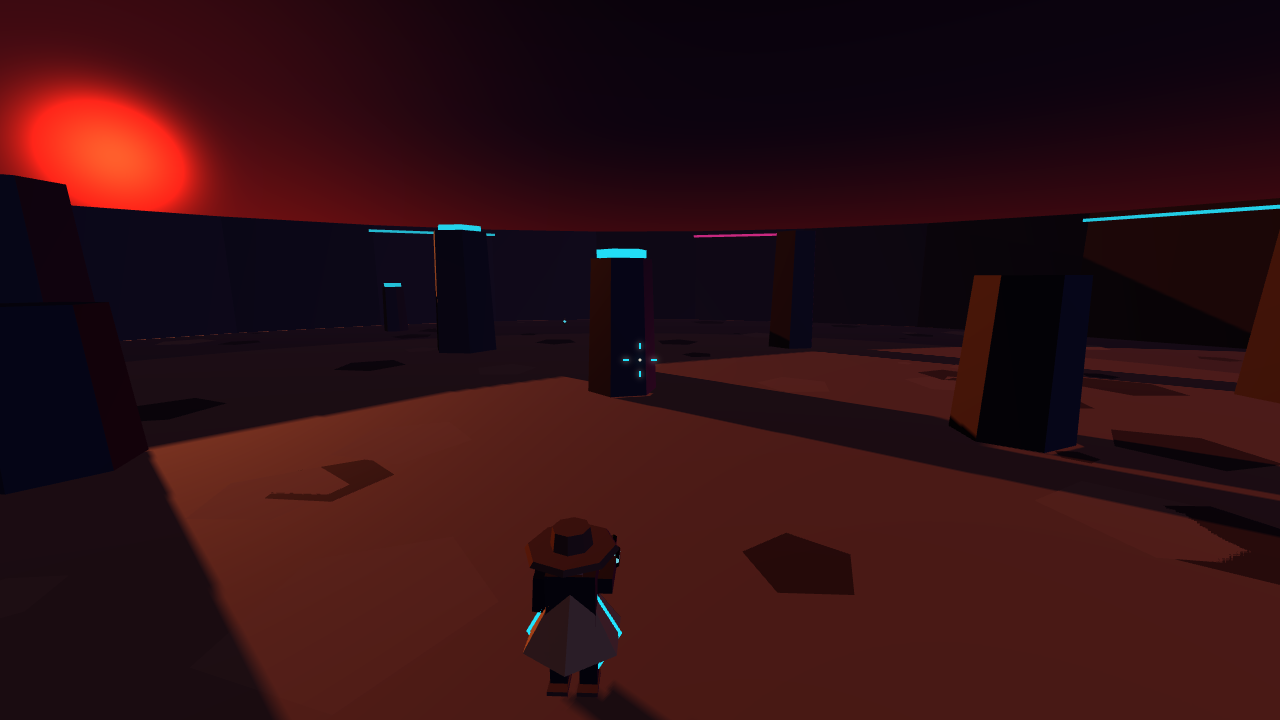
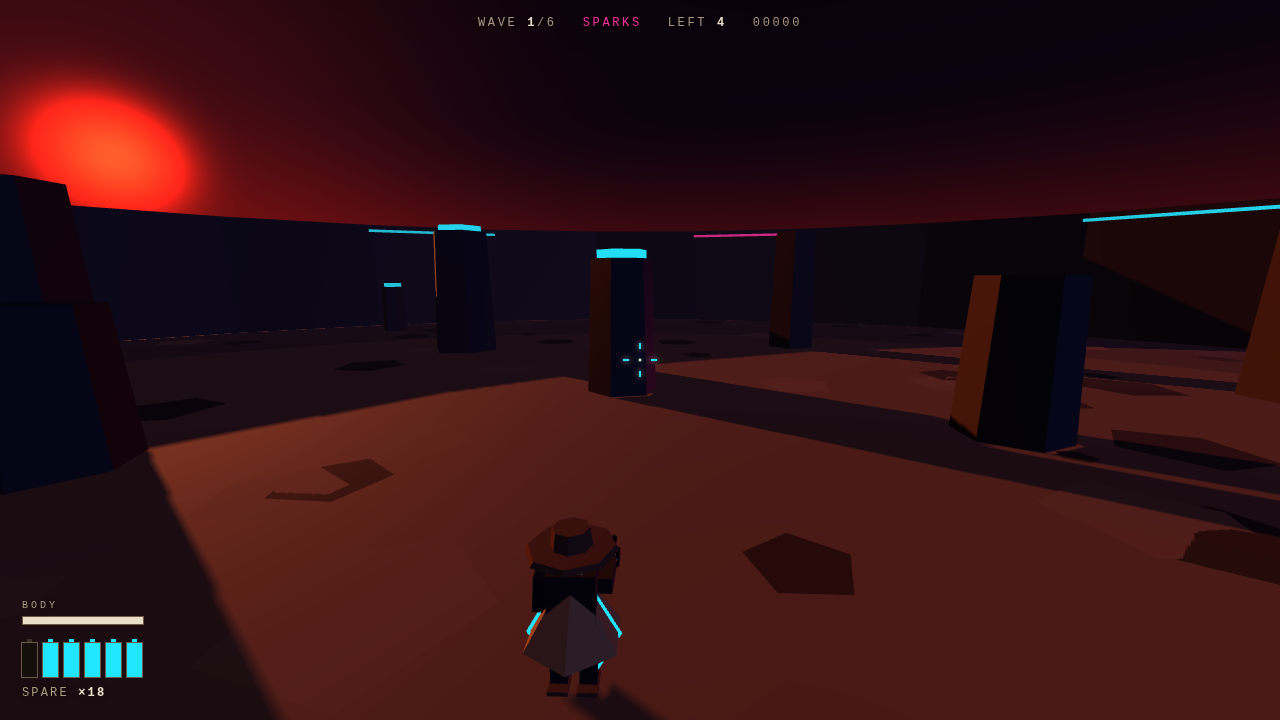
Battery cylinder, reload economics and defeat on depletion
Reloading replaces whole cells, so a chamber with charge still in it is thrown
away when you reload early: 40 units left plus one spare buys 60 units of
capacity, not 100. That makes "when do I reload" an actual resource decision
rather than a reflex, and verify pins the arithmetic.

A cylinder that cannot pay the full cost fires a weakened shot rather than
refusing, scaling volts and amperes by sqrt(power) so the V*A product scales
exactly with what was available. You are never stuck holding a dead trigger;
the run ends only when the cylinder and your pockets are both empty.

HUD stays out of the way: body bar, six cells, spare count, nothing else.
There is still no volt or ampere gauge -- the zoom and the crackle are the
gauges. The six cells modelled into the revolver track the same six chambers.

Claude-Session: https://claude.ai/code/session_019aY7eQBgLRgmyuaP8vNwto

Changed region(s): [[0.0, 0.8556, 0.125, 0.9778], [0.9062, 0.7028, 0.9688, 0.7944]]

diff --git a/src/ui/Hud.tsx b/src/ui/Hud.tsx
@@ -1,0 +1,148 @@
+import { useEffect, useRef } from 'react'
+import { BATTERY, PLAYER, WAVES } from '../config'
+import { charge, playerState } from '../game/runtime'
+import { useGame } from '../store'
+
+const CELL_W = 15
+const CELL_H = 34
+
+/** Cyan while healthy, amber as it drains, red when nearly flat. */
+function cellColor(frac: number) {
+  if (frac > 0.6) return '#22e6ff'
+  if (frac > 0.28) return '#ffd23f'
+  return '#ff4a4a'
+}
+
+function Cell({ frac }: { frac: number }) {
+  const c = cellColor(frac)
+  return (
+    <div style={{ width: CELL_W, display: 'flex', flexDirection: 'column', alignItems: 'center' }}>
+      {/* positive nub */}
+      <div style={{ width: 5, height: 3, background: frac > 0.02 ? c : '#3a3129' }} />
+      <div style={{
+        width: CELL_W, height: CELL_H, border: '1px solid #6b5a41',
+        background: '#140f0b', position: 'relative', overflow: 'hidden',
+      }}>
+        <div style={{
+          position: 'absolute', left: 0, right: 0, bottom: 0,
+          height: `${Math.max(0, Math.min(1, frac)) * 100}%`,
+          background: c, boxShadow: `0 0 8px ${c}`,
+          transition: 'height 90ms linear',
+        }} />
+      </div>
+    </div>
+  )
+}
+
+export function Hud() {
+  const hp = useGame((s) => s.hp)
+  const chambers = useGame((s) => s.chambers)
+  const spares = useGame((s) => s.spares)
+  const wave = useGame((s) => s.wave)
+  const waveLabel = useGame((s) => s.waveLabel)
+  const enemiesLeft = useGame((s) => s.enemiesLeft)
+  const score = useGame((s) => s.score)
+  const reloading = useGame((s) => s.reloading)
+  const log = useGame((s) => s.log)
+
+  const reloadBar = useRef<HTMLDivElement>(null)
+  const flash = useRef<HTMLDivElement>(null)
+
+  // Per-frame bits read the runtime directly instead of going through the
+  // store: reload progress and the damage flash must not re-render the HUD.
+  useEffect(() => {
+    let raf = 0
+    const tick = () => {
+      if (reloadBar.current) {
+        const p = 1 - Math.max(0, charge.reloadTimer) / BATTERY.reloadTime
+        reloadBar.current.style.width = `${Math.min(1, p) * 100}%`
+      }
+      if (flash.current) {
+        flash.current.style.opacity = String(Math.min(0.55, playerState.hitFlash * 0.55))
+      }
+      raf = requestAnimationFrame(tick)
+    }
+    raf = requestAnimationFrame(tick)
+    return () => cancelAnimationFrame(raf)
+  }, [])
+
+  const total = chambers.reduce((a, b) => a + b, 0)
+  const lowCylinder = total < BATTERY.unitsPerCell * 1.2
+
+  return (
+    <>
+      <div ref={flash} style={{
+        position: 'absolute', inset: 0, pointerEvents: 'none', opacity: 0,
+        background: 'radial-gradient(ellipse at center, rgba(255,40,40,0) 35%, rgba(255,30,60,0.95) 100%)',
+      }} />
+
+      {/* top centre: just the two numbers that matter */}
+      <div style={{
+        position: 'absolute', top: 16, left: '50%', transform: 'translateX(-50%)',
+        display: 'flex', gap: 26, fontSize: 12, letterSpacing: '0.22em',
+        color: '#a99a7e', pointerEvents: 'none', textShadow: '0 0 10px #000',
+      }}>
+        <span>WAVE <b style={{ color: '#e9dfc8' }}>{wave + 1}</b>/{WAVES.length}</span>
+        <span style={{ color: '#ff2f9e' }}>{waveLabel}</span>
+        <span>LEFT <b style={{ color: '#e9dfc8' }}>{enemiesLeft}</b></span>
+        <span>{String(score).padStart(5, '0')}</span>
+      </div>
+
+      {/* bottom left: body and batteries, nothing else */}
+      <div style={{
+        position: 'absolute', left: 22, bottom: 20, pointerEvents: 'none',
+        textShadow: '0 0 10px #000',
+      }}>
+        <div style={{ fontSize: 10, letterSpacing: '0.3em', color: '#a99a7e', marginBottom: 5 }}>BODY</div>
+        <div style={{ width: 6 * (CELL_W + 6) - 6, height: 7, background: '#140f0b', border: '1px solid #6b5a41' }}>
+          <div style={{
+            height: '100%', width: `${(hp / PLAYER.maxHp) * 100}%`,
+            background: hp > 40 ? '#e9dfc8' : '#ff4a4a',
+            boxShadow: hp > 40 ? 'none' : '0 0 10px #ff4a4a',
+            transition: 'width 140ms linear',
+          }} />
+        </div>
+
+        <div style={{ display: 'flex', gap: 6, marginTop: 14, alignItems: 'flex-end' }}>
+          {chambers.map((c, i) => <Cell key={i} frac={c / BATTERY.unitsPerCell} />)}
+        </div>
+
+        <div style={{
+          marginTop: 8, display: 'flex', alignItems: 'center', gap: 10,
+          fontSize: 12, letterSpacing: '0.18em', color: '#a99a7e',
+        }}>
+          <span>SPARE <b style={{ color: spares > 3 ? '#e9dfc8' : '#ff4a4a' }}>×{spares}</b></span>
+          {reloading ? (
+            <span style={{ color: '#22e6ff' }}>
+              RELOADING
+              <span style={{
+                display: 'inline-block', width: 54, height: 4, marginLeft: 8,
+                background: '#140f0b', border: '1px solid #22e6ff', verticalAlign: 'middle',
+              }}>
+                <div ref={reloadBar} style={{ height: '100%', width: '0%', background: '#22e6ff' }} />
+              </span>
+            </span>
+          ) : lowCylinder && spares > 0 ? (
+            <span style={{ color: '#ffd23f' }}>[R] RELOAD</span>
+          ) : null}
+        </div>
+      </div>
+
+      {/* transient messages, bottom right, max five lines */}
+      <div style={{
+        position: 'absolute', right: 22, bottom: 22, textAlign: 'right',
+        fontSize: 12, letterSpacing: '0.16em', pointerEvents: 'none',
+        textShadow: '0 0 10px #000',
+      }}>
+        {log.map((l) => (
+          <div key={l.id} style={{
+            color: l.tone === 'warn' ? '#ff4a4a' : l.tone === 'v' ? '#22e6ff' : l.tone === 'a' ? '#ff2f9e' : '#a99a7e',
+            marginTop: 3,
+          }}>
+            {l.text}
+          </div>
+        ))}
+      </div>
+    </>
+  )
+}

diff --git a/src/scene/Gunman.tsx b/src/scene/Gunman.tsx
@@ -1,8 +1,10 @@
 import { useRef } from 'react'
 import { useFrame } from '@react-three/fiber'
-import { Group, Object3D } from 'three'
+import { Group, Mesh, MeshStandardMaterial, Object3D } from 'three'
+import { BATTERY } from '../config'
 import { look } from '../input'
 import { charge, clampDt, damp, playerState } from '../game/runtime'
+import { useGame } from '../store'
 
 const SAND = '#8a7043'
 const DARK = '#332921'
@@ -17,8 +19,11 @@ export function Gunman() {
   const arm = useRef<Group>(null)
   const muzzle = useRef<Object3D>(null)
   const legs = useRef<Group>(null)
+  const cylinder = useRef<Group>(null)
+  const cells = useRef<Mesh[]>([])
   const walkT = useRef(0)
   const recoil = useRef(0)
+  const spin = useRef(0)
 
   useFrame((_, rawDt) => {
     const dt = clampDt(rawDt)
@@ -31,6 +36,23 @@ export function Gunman() {
       arm.current.position.z = 0.02 + recoil.current * 0.16
     }
     if (muzzle.current) muzzle.current.getWorldPosition(playerState.muzzle)
+
+    // The six cells in the gun ARE the six chambers on the HUD: each one dims
+    // as its charge is drawn down, so the resource is readable on the weapon.
+    const st = useGame.getState()
+    for (let i = 0; i < cells.current.length; i++) {
+      const m = cells.current[i]?.material as MeshStandardMaterial | undefined
+      if (!m) continue
+      const frac = (st.chambers[i] ?? 0) / BATTERY.unitsPerCell
+      m.emissiveIntensity = 0.1 + frac * 1.5
+      m.emissive.setRGB(0.13 * frac + 0.02, 0.9 * frac + 0.04, frac + 0.05)
+    }
+    if (cylinder.current) {
+      // Spins through a full turn while reloading, then rests on a detent.
+      const target = st.reloading ? spin.current + dt * 14 : Math.round(spin.current / (Math.PI / 3)) * (Math.PI / 3)
+      spin.current = st.reloading ? target : damp(spin.current, target, 12, dt)
+      cylinder.current.rotation.y = spin.current
+    }
 
     // Legs swing with planar speed; frozen mid-air.
     const sp = Math.hypot(playerState.vel.x, playerState.vel.z)
@@ -116,6 +138,7 @@ export function Gunman() {
         </mesh>
         {/* cylinder: six AA cells, canted out so the copper caps catch light */}
         <group position={[0, -0.04, -0.66]} rotation={[Math.PI / 2, 0, 0]}>
+          <group ref={cylinder}>
           <mesh castShadow>
             <cylinderGeometry args={[0.13, 0.13, 0.2, 6]} />
             <meshStandardMaterial color="#2a2f38" flatShading roughness={0.4} metalness={0.8} />
@@ -123,12 +146,20 @@ export function Gunman() {
           {Array.from({ length: 6 }, (_, i) => {
             const ang = (i / 6) * Math.PI * 2
             return (
-              <mesh key={i} position={[Math.cos(ang) * 0.085, 0, Math.sin(ang) * 0.085]}>
-                <cylinderGeometry args={[0.03, 0.03, 0.215, 6]} />
-                <meshStandardMaterial color="#1f6f7a" emissive="#22e6ff" emissiveIntensity={0.7} flatShading />
-              </mesh>
+              <group key={i} position={[Math.cos(ang) * 0.085, 0, Math.sin(ang) * 0.085]}>
+                {/* AA cell: can plus the raised positive terminal. */}
+                <mesh ref={(el) => { if (el) cells.current[i] = el }}>
+                  <cylinderGeometry args={[0.03, 0.03, 0.2, 6]} />
+                  <meshStandardMaterial color="#1f6f7a" emissive="#22e6ff" emissiveIntensity={0.7} flatShading />
+                </mesh>
+                <mesh position={[0, 0.115, 0]}>
+                  <cylinderGeometry args={[0.013, 0.013, 0.03, 6]} />
+                  <meshStandardMaterial color="#c9a227" metalness={0.9} roughness={0.3} flatShading />
+                </mesh>
+              </group>
             )
           })}
+          </group>
         </group>
         {/* grip */}
         <mesh castShadow position={[0, -0.18, -0.58]} rotation={[0.45, 0, 0]}>

diff --git a/src/scene/GameSystems.tsx b/src/scene/GameSystems.tsx
@@ -105,14 +105,23 @@ export function GameSystems() {
     }
     prevReload.current = rDown
 
+    // Out of juice in the gun AND in your pockets: the run is over. Checked
+    // before charging so you never stand there holding a dead trigger.
+    if (playing && !g.reloading && g.spares <= 0 && g.chambers.every((c) => c <= 0)) {
+      g.lose('OUT OF BATTERIES')
+    }
+
     if (g.reloading) {
       charge.reloadTimer -= dt
       charge.v = 0
       charge.a = 0
       charge.armed = false
       if (charge.reloadTimer <= 0) {
+        const before = useGame.getState().spares
         g.finishReload()
         stats.reloads++
+        const used = before - useGame.getState().spares
+        useGame.getState().pushLog(`RELOAD — ${used} CELL${used === 1 ? '' : 'S'}`, 'v')
         spawnSparks(playerState.muzzle, 7, 3.2, CYAN, { spread: 1, up: 0.6, life: 0.4, size: 0.06 })
       }
     } else if (playing) {

diff --git a/src/App.tsx b/src/App.tsx
@@ -10,6 +10,7 @@ import { Effects } from './scene/Effects'
 import { Enemies } from './scene/Enemies'
 import { GameSystems } from './scene/GameSystems'
 import { Crosshair } from './ui/Crosshair'
+import { Hud } from './ui/Hud'
 import { CameraRig } from './scene/CameraRig'
 import { Lighting } from './scene/Lighting'
 import { Player } from './scene/Player'
@@ -95,6 +96,7 @@ export default function App() {
         <Stage />
       </Canvas>
       {phase === 'playing' && <Crosshair />}
+      {phase !== 'title' && <Hud />}
       {phase === 'title' && <Title />}
     </div>
   )

diff --git a/src/store.ts b/src/store.ts
@@ -26,6 +26,7 @@ export interface GameState {
   start: () => void
   reset: () => void
   setPhase: (p: Phase) => void
+  lose: (reason: string) => void
   damagePlayer: (n: number) => void
   /**
    * Draw `cost` units from the cylinder, spilling across chambers.
@@ -79,6 +80,8 @@ export const useGame = create<GameState>((set, get) => ({
   }),
 
   setPhase: (p) => set({ phase: p }),
+
+  lose: (reason) => set((s) => (s.phase === 'playing' ? { phase: 'lost' as Phase, deathReason: reason } : s)),
 
   damagePlayer: (n) => set((s) => {
     if (s.phase !== 'playing') return s

diff --git a/TASKS.md b/TASKS.md
@@ -24,9 +24,9 @@
 - [x] 3-3 プレイヤーHPと被ダメージ演出
 
 ## 4. 電池リソース
-- [ ] 4-1 電池モデル（円柱＋凸極）とシリンダー装弾
-- [ ] 4-2 消費式 V×A、リロード(R)、残弾/残電池 HUD
-- [ ] 4-3 電池切れ敗北
+- [x] 4-1 電池モデル（円柱＋凸極）とシリンダー装弾
+- [x] 4-2 消費式 V×A、リロード(R)、残弾/残電池 HUD
+- [x] 4-3 電池切れ敗北
 
 ## 5. 敵3種と撃ち分け
 - [ ] 5-1 装甲個体（V閾値未満は弾く）
